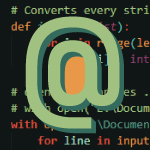
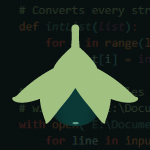
Updated images

diff --git a/CHANGELOG.md b/CHANGELOG.md
@@ -4,6 +4,11 @@ All notable changes to the "nightshade" extension will be documented in this fil
 
 Check [Keep a Changelog](http://keepachangelog.com/) for recommendations on how to structure this file.
 
+### 0.1.2
+
+- Updated the placeholder profile image for the Extensions Marketplace
+- Added a quick screengrabbed Python example for README.md
+
 ### 0.1.1
 
 - Fixed a filename discrepancy

diff --git a/README.md b/README.md
@@ -1,3 +1,5 @@
 # Nightshade
 
-Nightshade is a green-forward dark theme for VS Code. Originally created to match my desk theming.
+Nightshade is a green-forward dark theme for Visual Studio Code. Originally created to match my desk theming and is a work in progress. 
+
+![Phython Example](nightshade-python-example.jpg)
